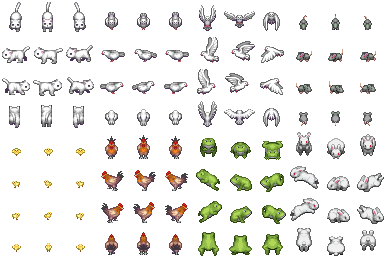
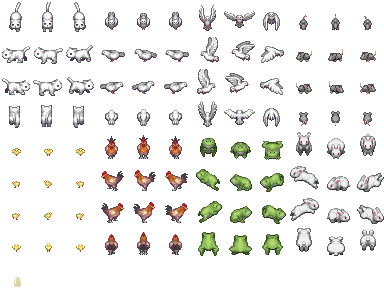
chickens lay eggs

diff --git a/game/game2.js b/game/game2.js
@@ -8,7 +8,8 @@ window.onload = function() {
         });
     //for the chickens
     Crafty.sprite(32, "animals.png", {
-        chicken: [4,4]
+        chicken: [4,4],
+        egg: [0,8]
     });
     Crafty.sprite(20, "dirt.png", {
         dirt1: [0,0],
@@ -132,13 +133,13 @@ window.onload = function() {
                     
 
             // the first frame is speed, the second is second frame is how long to animate for.
-                    if(!this.isPlaying()){
-                        direction = pickNewDirection();
+                    direction = pickNewDirection();
                     this.animate(direction.name, 30);
                     this.x += direction.x;
                     this.y += direction.y;
-                    }
-                    
+
+                    //pass on the chicken coordinates to the egg
+                    layAnEgg(this.x, this.y);
             });
 
             this.onHit('Hero', function() {console.log('You hit a chicken!') });
@@ -151,9 +152,21 @@ window.onload = function() {
                 }
                 return direction;
             };
+
         }
     });
-
+    Crafty.c('Egg', {
+        init: function() {
+            this.requires("Collision");
+        }
+    })
+                var layAnEgg = function(xPos, yPos) {
+                if(Crafty.math.randomInt(0, 3600) === 1) {
+                  Crafty.e("2D, egg, Canvas, Egg, Collision")
+                    .attr({x: xPos, y: yPos});
+                    console.log('laid an egg! ' );
+                }
+            };
     //create Hero Component
     Crafty.c('Hero', {
         init: function() {
